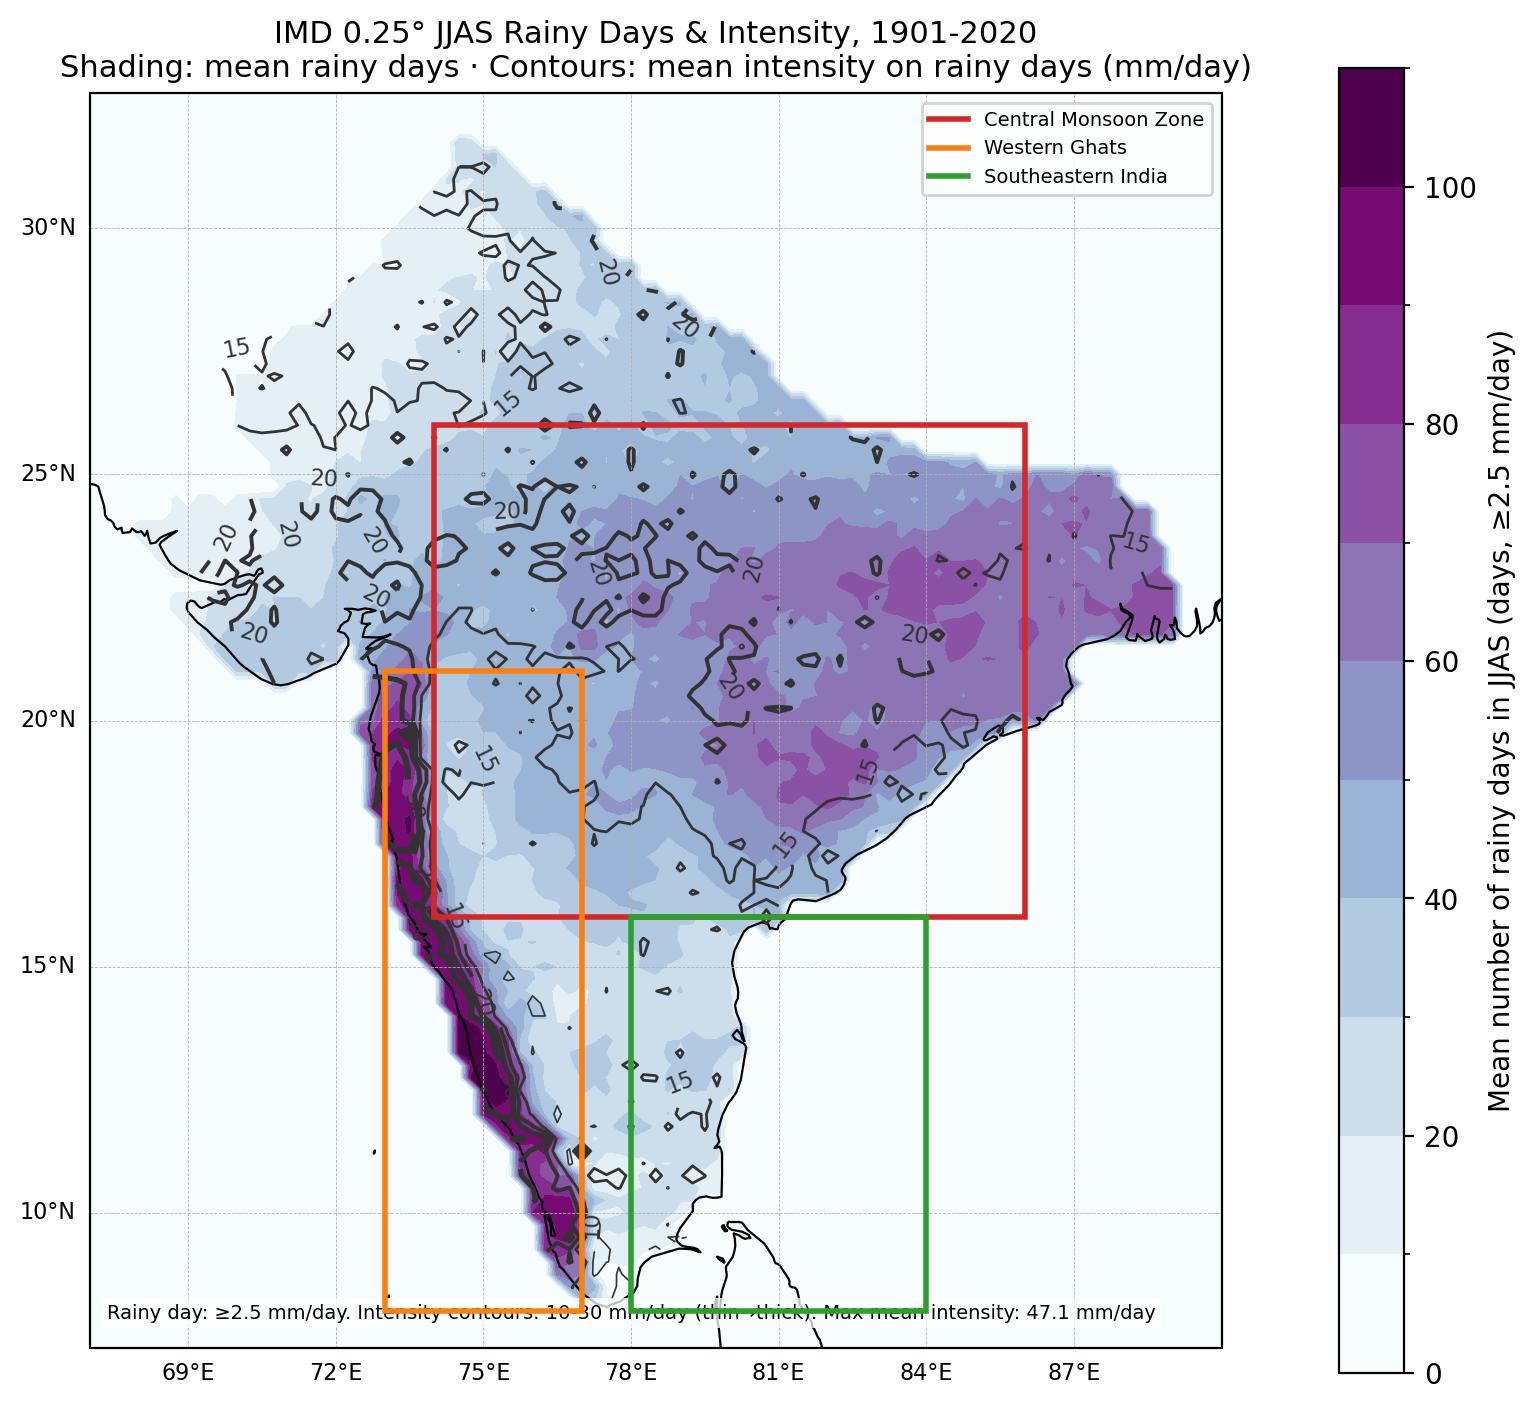
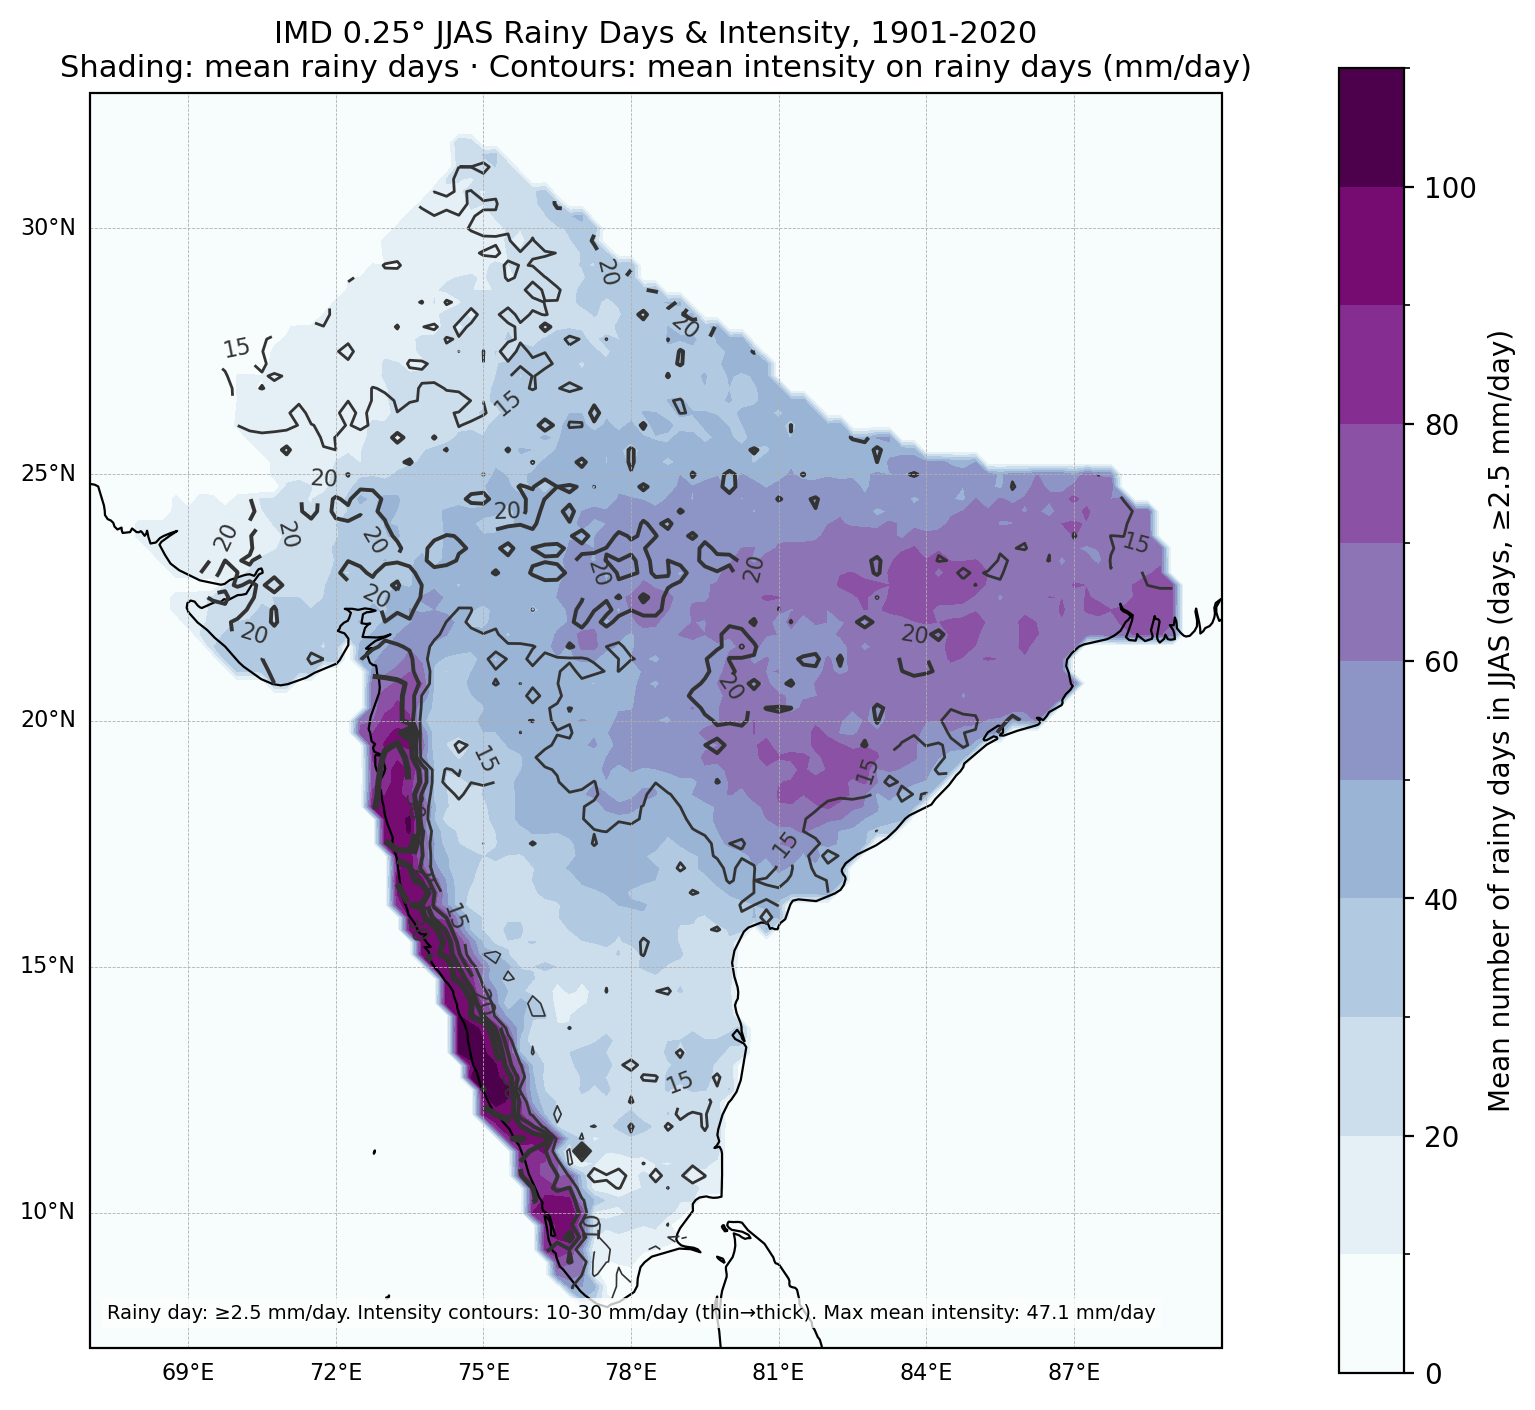
Remove sub-region boxes; add rainy-day threshold comparison
- plot_jjas_rainy_days_intensity.py: dropped the three sub-India region boxes
  (kept the >=2.5mm rainy-days + intensity figure itself unchanged otherwise).
- plot_jjas_rainy_days_0mm.py / plot_jjas_rainy_days_1mm.py: same "mean rainy
  days in JJAS" metric at >0mm and >1mm thresholds, for comparison against the
  IMD-standard 2.5mm version.
- compare_rainy_day_thresholds.py: quantifies how much the threshold choice
  matters. Spatial Pearson r alone is misleading here (~0.996, since both
  fields share the same wet/dry climatological gradient) - the script pairs it
  with a difference map and regression slope, which show up to ~39 days/season
  of real disagreement concentrated in the Western Ghats.
- README/CLAUDE.md updated: new scripts documented, plus a PATH-ordering bug
  discovered this session that crashes matplotlib rendering outright (native
  fault, not a Python exception) when the conda env's own DLLs get shadowed by
  an earlier PATH rebuild - documented with the fix in CLAUDE.md.

Changed region(s): [[0.245, 0.2809, 0.6736, 0.9362], [0.5818, 0.0624, 0.7961, 0.156]]

diff --git a/compare_rainy_day_thresholds.py b/compare_rainy_day_thresholds.py
@@ -1,0 +1,115 @@
+"""
+How sensitive is the JJAS "mean rainy days" climatology (see
+plot_jjas_rainy_days_0mm.py / _1mm.py / plot_jjas_rainy_days_intensity.py's
+>=2.5 mm/day) to the exact rainy-day threshold chosen? Compares the >0 mm/day
+and >1 mm/day definitions directly.
+
+On using a correlation (r) to compare the two fields
+---------------------------------------------------
+A single spatial Pearson r between the two threshold's rainy-day-count maps is
+NOT a great primary metric here, even though it's a common first instinct for
+"how similar are these two fields". The problem: both fields are dominated by
+the same underlying climatological wet/dry gradient (Western Ghats wet,
+NW India dry, etc.), so they will correlate very highly almost by
+construction, regardless of how much the threshold choice actually changes
+the day count. Run this script and you'll see r ~ 0.996 - technically true,
+but it mostly just confirms both maps recognize the Western Ghats as wet,
+which was never in question.
+
+What actually answers "does the threshold choice matter" is the DIFFERENCE
+between the two fields (by construction, days(>0mm) - days(>1mm) = the mean
+number of light/drizzle days per JJAS season with 0 < rain <= 1mm at that
+grid point) and the regression slope (is the bias constant, or does it scale
+with how wet a location is?). This script reports both r AND the difference
+field, plus a scatter/regression, so the r-value sits alongside the numbers
+that show what it's hiding.
+"""
+import xarray as xr
+import numpy as np
+import matplotlib
+matplotlib.use('Agg')
+import matplotlib.pyplot as plt
+import matplotlib.gridspec as gridspec
+import cartopy.crs as ccrs
+import cartopy.feature as cfeature
+from scipy import stats
+
+ds = xr.open_dataset('data/rainfall/imd_rain_daily_0p25_monsoon-masked_1901-2020.nc')
+precip = ds['precip']
+jjas = precip.sel(time=precip['time.month'].isin([6, 7, 8, 9]))
+n_years = len(np.unique(jjas['time.year'].values))
+
+days_0mm = (jjas > 0).sum(dim='time') / n_years
+days_1mm = (jjas > 1).sum(dim='time') / n_years
+diff = days_0mm - days_1mm  # = mean days/season with 0 < rain <= 1mm
+
+a = days_0mm.values.ravel()
+b = days_1mm.values.ravel()
+valid = ~np.isnan(a) & ~np.isnan(b)
+r, p = stats.pearsonr(a[valid], b[valid])
+slope, intercept, r2, p2, se = stats.linregress(b[valid], a[valid])
+
+print(f"{n_years} years, {valid.sum()} grid cells")
+print(f"Pearson r (>0mm vs >1mm spatial pattern): {r:.4f} (p={p:.2e})")
+print(f"Regression >0mm = {slope:.3f} * >1mm + {intercept:.3f}  (R^2={r2**2:.4f})")
+print(f"Difference (>0mm minus >1mm) range: {float(diff.min()):.1f} to {float(diff.max()):.1f} days/season")
+print(f"Difference mean/median: {float(diff.mean()):.1f} / {float(diff.median()):.1f} days/season")
+
+DATA_EXTENT = [67.0, 90.0, 7.25, 32.75]
+COUNT_LEVELS = np.arange(0, 125, 10)
+
+fig = plt.figure(figsize=(14, 13))
+gs = gridspec.GridSpec(2, 2, figure=fig, hspace=0.3, wspace=0.25, top=0.88, bottom=0.04)
+
+
+def plot_map(ax, field, title, levels, cmap, cbar_label):
+    ax.set_facecolor('#eaf2f8')
+    field.plot.contourf(
+        ax=ax, transform=ccrs.PlateCarree(), levels=levels, extend='neither', cmap=cmap,
+        add_colorbar=True, cbar_kwargs={'label': cbar_label, 'shrink': 0.8, 'pad': 0.05},
+    )
+    ax.add_feature(cfeature.COASTLINE, linewidth=0.7)
+    ax.set_extent(DATA_EXTENT, crs=ccrs.PlateCarree())
+    gl = ax.gridlines(draw_labels=True, linewidth=0.3, linestyle='--')
+    gl.top_labels = False
+    gl.right_labels = False
+    gl.xlabel_style = {'size': 7}
+    gl.ylabel_style = {'size': 7}
+    ax.set_title(title, fontsize=10)
+
+
+ax1 = fig.add_subplot(gs[0, 0], projection=ccrs.PlateCarree())
+plot_map(ax1, days_0mm, 'Mean rainy days, threshold >0 mm/day', COUNT_LEVELS, 'BuPu', 'days')
+
+ax2 = fig.add_subplot(gs[0, 1], projection=ccrs.PlateCarree())
+plot_map(ax2, days_1mm, 'Mean rainy days, threshold >1 mm/day', COUNT_LEVELS, 'BuPu', 'days')
+
+ax3 = fig.add_subplot(gs[1, 0], projection=ccrs.PlateCarree())
+plot_map(ax3, diff, 'Difference: (>0mm) − (>1mm)\n= mean days/season with 0 < rain ≤ 1mm',
+         np.arange(0, 42, 2), 'OrRd', 'days')
+
+ax4 = fig.add_subplot(gs[1, 1])
+ax4.scatter(b[valid], a[valid], s=3, alpha=0.15, color='#4c72b0', edgecolors='none')
+lims = [0, max(a[valid].max(), b[valid].max()) * 1.02]
+ax4.plot(lims, lims, '--', color='#888888', linewidth=1, label='1:1 line')
+x_fit = np.array(lims)
+ax4.plot(x_fit, slope * x_fit + intercept, color='#d62728', linewidth=1.5,
+          label=f'fit: y={slope:.2f}x+{intercept:.1f}')
+ax4.set_xlim(lims)
+ax4.set_ylim(lims)
+ax4.set_xlabel('Mean rainy days, threshold >1 mm/day')
+ax4.set_ylabel('Mean rainy days, threshold >0 mm/day')
+ax4.set_title(f'Per-cell comparison (r = {r:.3f})', fontsize=10)
+ax4.legend(fontsize=8, loc='upper left')
+ax4.grid(True, alpha=0.3)
+ax4.set_aspect('equal')
+
+fig.suptitle(
+    'Sensitivity of "rainy day" count to threshold choice, JJAS 1901-2020\n'
+    f'r={r:.3f} looks like near-perfect agreement, but the two definitions differ by up to '
+    f'{float(diff.max()):.0f} days/season in the wettest cells',
+    fontsize=12, fontweight='bold',
+)
+
+plt.savefig('figures/compare_rainy_day_thresholds.png', dpi=200, bbox_inches='tight')
+print('Saved figures/compare_rainy_day_thresholds.png')

diff --git a/plot_jjas_rainy_days_intensity.py b/plot_jjas_rainy_days_intensity.py
@@ -1,30 +1,22 @@
 """
 IMD 0.25 deg gridded rainfall, 1901-2020: climatological mean number of rainy
-days in JJAS (shaded), with mean rainfall intensity on rainy days (contours),
-and the three sub-India analysis regions outlined.
+days in JJAS (shaded), with mean rainfall intensity on rainy days (contours).
 
-"Rainy day" = daily rainfall >= 2.5 mm, the standard IMD threshold.
+"Rainy day" = daily rainfall >= 2.5 mm, the standard IMD threshold. See
+compare_rainy_day_thresholds.py for how sensitive this figure's "rainy days"
+count is to that threshold choice (also tested at >0 and >1 mm/day).
 
 Intensity contours use a single dark color with increasing linewidth per level
 (not grayscale), matching plot_jjas_climatology.py and
 plot_jjas_rainfall_fraction.py: pale/white lines would vanish over pale
 shading, and a fixed 10-30 mm/day color scale would misleadingly imply that's
 the data's range when cells go higher (true max reported as text instead).
-
-Region boxes are APPROXIMATE, commonly-cited literature boundaries, not a
-specific paper's exact definition - check these against whatever source your
-study is actually using before relying on them:
-  - Central Monsoon Zone: 74-86E, 16-26N   (Gadgil & Gadgil 2006; Rajeevan et al.)
-  - Western Ghats:        73-77E, 8-21N
-  - Southeastern India:   78-84E, 8-16N    (Tamil Nadu / coastal Andhra Pradesh)
 """
 import xarray as xr
 import numpy as np
 import matplotlib
 matplotlib.use('Agg')
 import matplotlib.pyplot as plt
-import matplotlib.patches as mpatches
-import matplotlib.lines as mlines
 import cartopy.crs as ccrs
 import cartopy.feature as cfeature
 
@@ -51,13 +43,6 @@ print(f"{n_years} years | mean rainy days range: {float(mean_rainy_days.min()):.
 
 DATA_EXTENT = [67.0, 90.0, 7.25, 32.75]  # matches other figures in this project
 
-REGIONS = [
-    # name, lon_min, lon_max, lat_min, lat_max, color
-    ('Central Monsoon Zone', 74, 86, 16, 26, '#d62728'),
-    ('Western Ghats',        73, 77,  8, 21, '#ff7f0e'),
-    ('Southeastern India',   78, 84,  8, 16, '#2ca02c'),
-]
-
 fig, ax = plt.subplots(figsize=(8, 9), subplot_kw={'projection': ccrs.PlateCarree()})
 ax.set_facecolor('#eaf2f8')
 
@@ -75,12 +60,6 @@ cs = mean_intensity.plot.contour(
     levels=intensity_levels, colors='#333333', linewidths=intensity_linewidths,
 )
 ax.clabel(cs, inline=True, fontsize=8, fmt='%d')
-
-for name, lon_min, lon_max, lat_min, lat_max, color in REGIONS:
-    ax.add_patch(mpatches.Rectangle(
-        (lon_min, lat_min), lon_max - lon_min, lat_max - lat_min,
-        transform=ccrs.PlateCarree(), fill=False, edgecolor=color, linewidth=2.0, zorder=4,
-    ))
 
 ax.add_feature(cfeature.COASTLINE, linewidth=0.8)
 ax.set_extent(DATA_EXTENT, crs=ccrs.PlateCarree())
@@ -106,12 +85,6 @@ ax.text(
     transform=ax.transAxes, fontsize=7, va='bottom', ha='left',
     bbox=dict(facecolor='white', alpha=0.75, edgecolor='none', pad=2),
 )
-
-legend_handles = [
-    mlines.Line2D([], [], color=color, linewidth=2.0, label=name)
-    for name, *_, color in REGIONS
-]
-ax.legend(handles=legend_handles, loc='upper right', fontsize=7, framealpha=0.85)
 
 plt.tight_layout()
 plt.savefig('figures/jjas_rainy_days_intensity.png', dpi=200, bbox_inches='tight')

diff --git a/plot_jjas_rainy_days_0mm.py b/plot_jjas_rainy_days_0mm.py
@@ -1,0 +1,59 @@
+"""
+IMD 0.25 deg gridded rainfall, 1901-2020: climatological mean number of rainy
+days in JJAS, using a >0 mm/day threshold (i.e. any day with measurable rain).
+
+Companion to plot_jjas_rainy_days_1mm.py and plot_jjas_rainy_days_intensity.py
+(which uses the standard IMD >=2.5 mm/day threshold) - see
+compare_rainy_day_thresholds.py for how much the threshold choice matters.
+"""
+import xarray as xr
+import numpy as np
+import matplotlib
+matplotlib.use('Agg')
+import matplotlib.pyplot as plt
+import cartopy.crs as ccrs
+import cartopy.feature as cfeature
+
+ds = xr.open_dataset('data/rainfall/imd_rain_daily_0p25_monsoon-masked_1901-2020.nc')
+precip = ds['precip']
+jjas = precip.sel(time=precip['time.month'].isin([6, 7, 8, 9]))
+n_years = len(np.unique(jjas['time.year'].values))
+
+RAINY_DAY_THRESHOLD = 0  # mm/day - any measurable (nonzero) rainfall
+rainy_mask = jjas > RAINY_DAY_THRESHOLD
+mean_rainy_days = rainy_mask.sum(dim='time') / n_years
+
+print(f"{n_years} years | threshold >{RAINY_DAY_THRESHOLD} mm/day | "
+      f"mean rainy days range: {float(mean_rainy_days.min()):.1f}-{float(mean_rainy_days.max()):.1f} days")
+
+DATA_EXTENT = [67.0, 90.0, 7.25, 32.75]  # matches other figures in this project
+
+fig, ax = plt.subplots(figsize=(8, 9), subplot_kw={'projection': ccrs.PlateCarree()})
+ax.set_facecolor('#eaf2f8')
+
+mean_rainy_days.plot.contourf(
+    ax=ax, transform=ccrs.PlateCarree(),
+    levels=np.arange(0, 125, 10), extend='neither', cmap='BuPu',
+    add_colorbar=True,
+    cbar_kwargs={'label': f'Mean number of rainy days in JJAS (days, >{RAINY_DAY_THRESHOLD} mm/day)',
+                 'shrink': 0.75, 'pad': 0.08},
+)
+
+ax.add_feature(cfeature.COASTLINE, linewidth=0.8)
+ax.set_extent(DATA_EXTENT, crs=ccrs.PlateCarree())
+
+gl = ax.gridlines(draw_labels=True, linewidth=0.3, linestyle='--')
+gl.top_labels = False
+gl.right_labels = False
+gl.xlabel_style = {'size': 8}
+gl.ylabel_style = {'size': 8}
+
+year0, year1 = int(precip['time.year'].values[0]), int(precip['time.year'].values[-1])
+ax.set_title(
+    f'IMD 0.25° JJAS Rainy Days, {year0}-{year1} (threshold: >{RAINY_DAY_THRESHOLD} mm/day)',
+    fontsize=11,
+)
+
+plt.tight_layout()
+plt.savefig('figures/jjas_rainy_days_0mm.png', dpi=200, bbox_inches='tight')
+print('Saved figures/jjas_rainy_days_0mm.png')

diff --git a/plot_jjas_rainy_days_1mm.py b/plot_jjas_rainy_days_1mm.py
@@ -1,0 +1,59 @@
+"""
+IMD 0.25 deg gridded rainfall, 1901-2020: climatological mean number of rainy
+days in JJAS, using a >1 mm/day threshold.
+
+Companion to plot_jjas_rainy_days_0mm.py and plot_jjas_rainy_days_intensity.py
+(which uses the standard IMD >=2.5 mm/day threshold) - see
+compare_rainy_day_thresholds.py for how much the threshold choice matters.
+"""
+import xarray as xr
+import numpy as np
+import matplotlib
+matplotlib.use('Agg')
+import matplotlib.pyplot as plt
+import cartopy.crs as ccrs
+import cartopy.feature as cfeature
+
+ds = xr.open_dataset('data/rainfall/imd_rain_daily_0p25_monsoon-masked_1901-2020.nc')
+precip = ds['precip']
+jjas = precip.sel(time=precip['time.month'].isin([6, 7, 8, 9]))
+n_years = len(np.unique(jjas['time.year'].values))
+
+RAINY_DAY_THRESHOLD = 1  # mm/day
+rainy_mask = jjas > RAINY_DAY_THRESHOLD
+mean_rainy_days = rainy_mask.sum(dim='time') / n_years
+
+print(f"{n_years} years | threshold >{RAINY_DAY_THRESHOLD} mm/day | "
+      f"mean rainy days range: {float(mean_rainy_days.min()):.1f}-{float(mean_rainy_days.max()):.1f} days")
+
+DATA_EXTENT = [67.0, 90.0, 7.25, 32.75]  # matches other figures in this project
+
+fig, ax = plt.subplots(figsize=(8, 9), subplot_kw={'projection': ccrs.PlateCarree()})
+ax.set_facecolor('#eaf2f8')
+
+mean_rainy_days.plot.contourf(
+    ax=ax, transform=ccrs.PlateCarree(),
+    levels=np.arange(0, 125, 10), extend='neither', cmap='BuPu',
+    add_colorbar=True,
+    cbar_kwargs={'label': f'Mean number of rainy days in JJAS (days, >{RAINY_DAY_THRESHOLD} mm/day)',
+                 'shrink': 0.75, 'pad': 0.08},
+)
+
+ax.add_feature(cfeature.COASTLINE, linewidth=0.8)
+ax.set_extent(DATA_EXTENT, crs=ccrs.PlateCarree())
+
+gl = ax.gridlines(draw_labels=True, linewidth=0.3, linestyle='--')
+gl.top_labels = False
+gl.right_labels = False
+gl.xlabel_style = {'size': 8}
+gl.ylabel_style = {'size': 8}
+
+year0, year1 = int(precip['time.year'].values[0]), int(precip['time.year'].values[-1])
+ax.set_title(
+    f'IMD 0.25° JJAS Rainy Days, {year0}-{year1} (threshold: >{RAINY_DAY_THRESHOLD} mm/day)',
+    fontsize=11,
+)
+
+plt.tight_layout()
+plt.savefig('figures/jjas_rainy_days_1mm.png', dpi=200, bbox_inches='tight')
+print('Saved figures/jjas_rainy_days_1mm.png')

diff --git a/CLAUDE.md b/CLAUDE.md
@@ -59,6 +59,26 @@ from this network when checked; other hosts (GitHub, AWS S3, USGS, GEBCO, OpenTo
 If a script needs NOAA-hosted data (e.g. HadISST/ERSST mirrors), check reachability first rather than
 assuming the NOAA host will respond.
 
+## Environment gotcha: PATH order breaks matplotlib rendering
+
+If `$env:Path` has been rebuilt from the Machine+User registry values in the current shell (e.g. after
+installing Git, or any `git`-related command in this session that did
+`$env:Path = [System.Environment]::GetEnvironmentVariable(...)`), running matplotlib afterwards can
+**crash the Python process outright** (native fault, exit code shows as 127 in the harness, actual
+Windows exit code `-1066598273` / `0xC0000409`) — not a Python exception, so no traceback. Root cause:
+something earlier in that rebuilt PATH (observed with Git for Windows present) shadows a DLL the conda
+env's own Agg/FreeType rendering stack needs, causing an ABI mismatch crash specifically when
+`fig.canvas.draw()` / `savefig()` actually renders (plain `import matplotlib` and `plt.subplots()` work
+fine — it's the rendering call that dies). This is a real PATH-ordering bug, not memory pressure (initially
+misdiagnosed as that; confirmed by isolating PATH to just the conda env and retesting).
+
+Fix: before running any plotting script, set PATH to put the conda env's own directories first:
+```powershell
+$env:Path = "C:\Users\shrey\.conda\envs\podaac_env;C:\Users\shrey\.conda\envs\podaac_env\Library\mingw-w64\bin;C:\Users\shrey\.conda\envs\podaac_env\Library\usr\bin;C:\Users\shrey\.conda\envs\podaac_env\Library\bin;C:\Users\shrey\.conda\envs\podaac_env\Scripts;C:\Windows\System32;C:\Windows"
+```
+If a plotting script mysteriously produces no output and no error, check `$LASTEXITCODE` for
+`-1066598273` before chasing anything else — it means this, not a bug in the script.
+
 ## Conventions
 
 - Map figures: crop to the data's actual extent rather than the full lat/lon grid (which extends past
@@ -73,4 +93,10 @@ assuming the NOAA host will respond.
 - Fractions/ratios over a multi-year record (e.g. JJAS share of annual rainfall) are computed from
   pooled sums across all years (`jjas_total.sum('year') / annual_total.sum('year')`), not by averaging
   each year's own ratio — a single near-zero-rainfall year in a dry cell would otherwise skew a simple
-  average.
+  average. Simple day-counts (e.g. mean rainy days per season) don't need this - summing over the full
+  multi-year time series and dividing by n_years is already equivalent to averaging each year's count.
+- Don't lean on a single spatial Pearson r to claim two gridded fields "agree" — two fields sharing the
+  same dominant climatological gradient (e.g. any two rainy-day-threshold definitions over India) will
+  correlate very highly almost by construction, which can hide large practical differences. See
+  `compare_rainy_day_thresholds.py` for the pattern to follow: report r if asked for, but pair it with
+  a difference field and/or regression slope that shows what the correlation is masking.

diff --git a/README.md b/README.md
@@ -36,9 +36,13 @@ large for GitHub. Only code, figures, and documentation are tracked.
 - `plot_jjas_rainfall_fraction.py` — climatological % of annual rainfall falling in JJAS (shaded), with
   elevation (contoured).
 - `plot_jjas_rainy_days_intensity.py` — climatological mean number of rainy days in JJAS (shaded,
-  ≥2.5 mm/day IMD threshold), mean rainfall intensity on rainy days (contoured), and the three sub-India
-  analysis regions (Central Monsoon Zone, Western Ghats, Southeastern India) outlined using approximate
-  literature boundaries — see the script docstring before relying on the exact boxes.
+  ≥2.5 mm/day IMD threshold), mean rainfall intensity on rainy days (contoured).
+- `plot_jjas_rainy_days_0mm.py` / `plot_jjas_rainy_days_1mm.py` — same "mean rainy days" metric at two
+  other thresholds (>0 and >1 mm/day), for comparison against the IMD-standard 2.5mm figure above.
+- `compare_rainy_day_thresholds.py` — quantifies how much the >0mm vs >1mm threshold choice actually
+  matters: spatial Pearson r, a difference map, and a per-cell scatter/regression. Read the docstring —
+  the r-value alone (~0.996) is misleadingly reassuring here; the difference map is the more informative
+  result (up to ~39 days/season difference in the wettest cells).
 
 ## Setup
 
